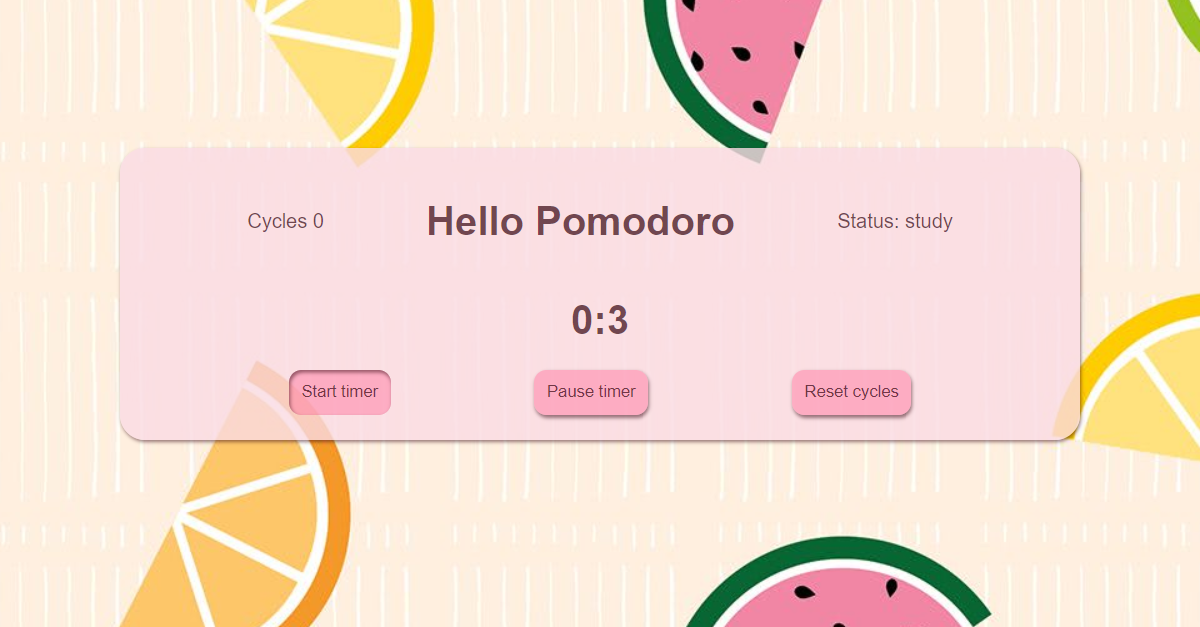
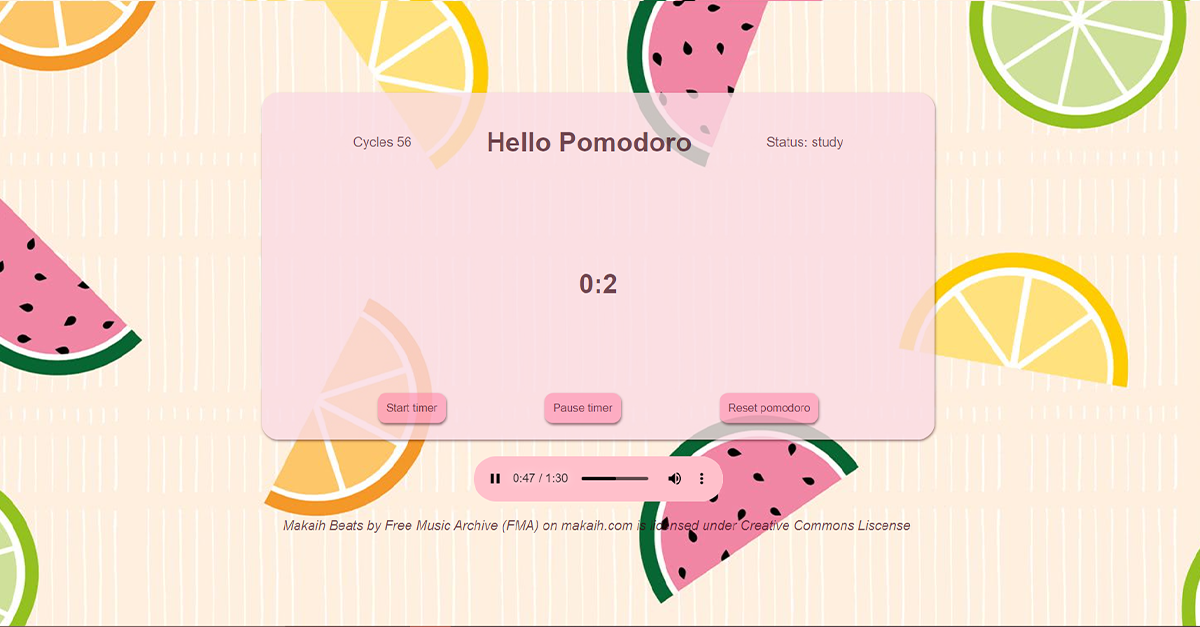
update attribution

diff --git a/src/components/Attribution.vue b/src/components/Attribution.vue
@@ -1,6 +1,6 @@
 <template>
 <div>
-  <vue-typed-js :strings="['Makaih Beats by Free Music Archive (FMA) on makaih.com is licensed under Creative Commons Liscense']">
+  <vue-typed-js :strings="['Makaih Beats by Free Music Archive (FMA) on https://freemusicarchive.org/ is licensed under Creative Commons Liscense']">
     <i class="typing"></i>
   </vue-typed-js>
 </div>
